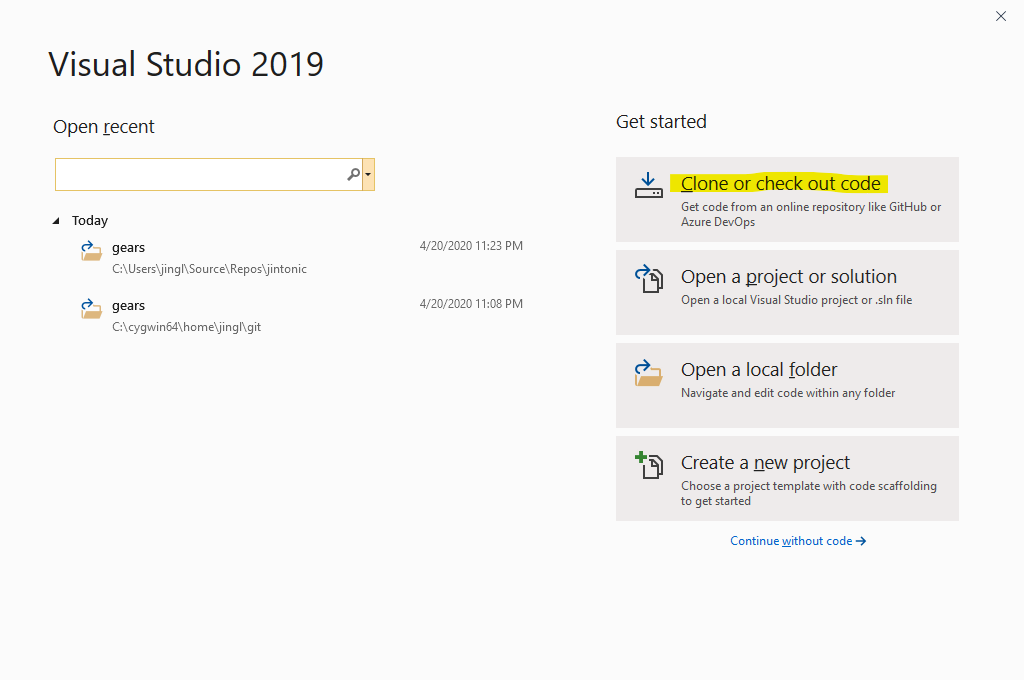
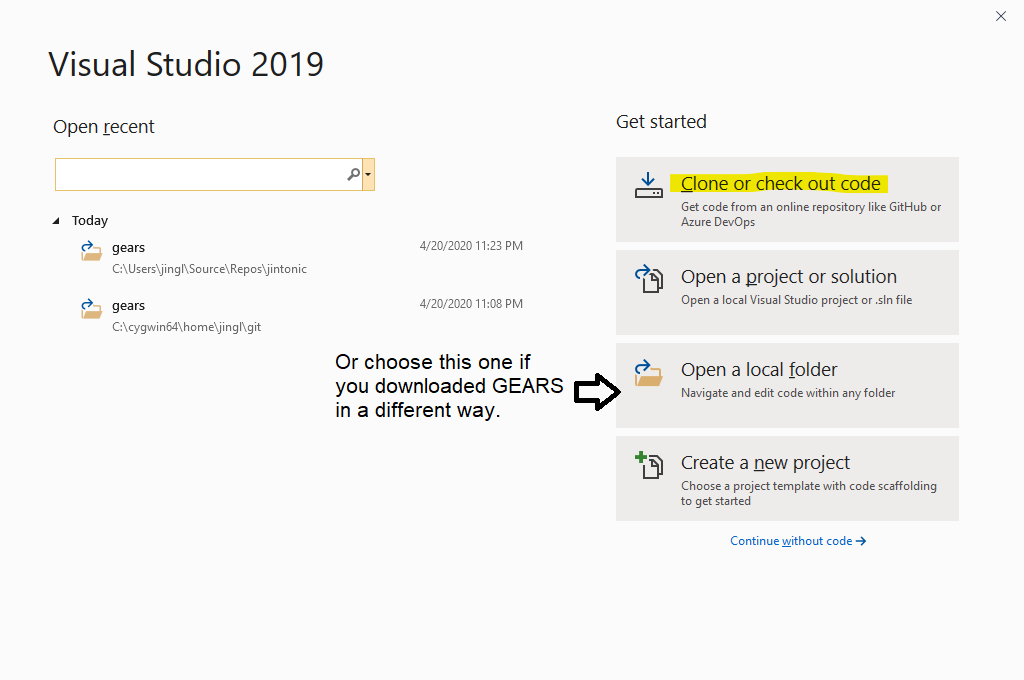
updated

Changed region(s): [[0.3125, 0.525, 0.625, 0.6176]]

diff --git a/install/README.md b/install/README.md
@@ -14,7 +14,15 @@
 [Geant4]: http://geant4.cern.ch
 
 ## Get GEARS
-[GEARS][] can be downloaded as a `.tar.gz` or `.zip` file from its [homepage](http://physino.xyz/gears) or [GitHub](https://github.com/jintonic/gears). In Linux, run the following commands to unzip it:
+### Get GEARS in Windows
+[GEARS][] can be downloaded as a `.zip` file from its [homepage](http://physino.xyz/gears) or [GitHub](https://github.com/jintonic/gears). Unpack it and that's it, you've got [GEARS][].
+
+If you know how to use [Git][], you can download the whole [GEARS repository from GitHub][GEARS] using either [GitHub Desktop](https://desktop.github.com/) or [Visual Studio][]. If you use [Visual Studio][], go to section [Compile GEARS with Visual Studio](#compile-gears-with-visual-studio) for detailed instruction.
+
+[Visual Studio]: https://visualstudio.microsoft.com/thank-you-downloading-visual-studio/?sku=Community
+
+### Get GEARS in macOS or Linux
+[GEARS][] can be downloaded as a `.tar.gz` or `.zip` file from its [homepage](http://physino.xyz/gears) or [GitHub](https://github.com/jintonic/gears). Run the following commands in your terminal to unzip it:
 
 ```sh
 $ unzip gears-master.zip # if you downloaded the zip file
@@ -47,19 +55,39 @@ $ git pull # get latest gears
 
 ## Compile GEARS
 
+Two compilation systems are provide for [GEARS][]. One is [CMake][]. This mechanism is provided to insure that [GEARS][] can be compiled across platforms. You can find a [CMakeLists.txt]({{site.file}}/CMakeLists.txt) file in the [GEARS][] folder, which can be detected automatically by [Visual Studio][]. The other method is to directly use a [makefile]({{site.file}}/makefile) shipped with [GEARS][], which simplifies the compilation in Linux and macOS significantly.
+
+[CMake]: https://cmake.org/
+
 ### Compile GEARS with Visual Studio
 
 Download Visual Studio Community Edition installer. Run it. Choose to install a workload called "Desktop development with C++". It is about 2 GB and takes a long time to download and install. When you open VS the first time, choose "Visual C++" as your "Development Settings". And then "Clone and checkout code":
+<img style="width:100%;" src="vsstart.png"/>
 
-![vsstart](vsstart.png)
-![vsrepos](vsrepos.png)
-![vsconfig](vsconfig.png)
+Insert the [GEARS][] [GitHub](https://github.com/jintonic/gears) repository address `https://github.com/jintonic/gears.git` in the window below, and click `Clone`:
+<img style="width:100%;" src="vsrepos.png"/>
+
+The default configuration of a new project in [Visual Studio][] 2019 is `x64-Debug` in a 64-bit Windows 10 machine. Choose in the pull down menu shown below `Manage Configurations...`:
+<img style="width:100%;" src="vsconfig.png"/>
+
+Add `x64-Release` as the new CMakeSettings in the window below.
 ![vscmakesetting](vscmakesetting.png)
+
+And delete `x64-Debug`.  The `x64-Debug` setting does not work with pre-compiled [Geant4][].
 ![vscmakermdebug](vscmakermdebug.png)
+
+Click on the save icon to save the new settings to a file called `CMakeSettings.json` in your local [GEARS][] folder:
+
 ![vssavecmakejson](vssavecmakejson.png)
+
+In the following drop-down menu, select `gears.exe`:
 ![vsselectgears](vsselectgears.png)
+
+And then press the green play button to compile [GEARS][]:
 ![vsrungears](vsrungears.png)
-![vsdebuggears](vsdebuggears.png)
+
+Upon a successful compilation, `gears.exe` will be automatically launched within [Visual Studio][]:
+<img style="width:100%;" src="vsdebuggears.png"/>
 
 ### Compile GEARS in macOS or Linux
 [GEARS][] is shipped with a simple [makefile]({{site.file}}/makefile). Simply type `make` to compile [gears.cc]({{site.file}}/gears.cc) to generate a tiny executable `gears` in the GEARS directory:
@@ -73,9 +101,11 @@ $ make # compile gears.cc to generate executable: gears
 
 ### Install GEARS in Windows
 
-When [GEARS][] is successfully compiled in `Visual Studio`, its executable `gears.exe` is saved in `\path\to\gears\out\build\x64-Release\`. You need to add this folder to the Windows environment variable `path` so that you can use `gears.exe` in other directories. A batch file [gears.bat](../gears.bat) is shipped with [GEARS][] to do this for you. Open the [GEARS][] folder in your file browser, select `gears.bat`, right click on it, choose `Run as administrator` to run it. To check if it works, open a `cmd.exe` window and type `echo %path%` in it:
+When [GEARS][] is successfully compiled in [Visual Studio][], its executable `gears.exe` is located at `\path\to\gears\out\build\x64-Release\`. You need to add this folder to the Windows environment variable `path` so that you can use `gears.exe` in other directories. A batch file [gears.bat]({{site.file}}/gears.bat) is shipped with [GEARS][] to do this for you. Open the [GEARS][] folder in your file browser, select `gears.bat`, right click on it, choose `Run as administrator` to run it. To check if it works, open a `cmd.exe` window and type `echo %path%` in it:
 
 ![winCmdPath](winCmdPath.png)
+
+The path to `gears.exe` should show up at the end of the list.
 
 ### Install GEARS in macOS or Linux
 
@@ -91,7 +121,7 @@ $ make # compile gears.cc to generate executable: gears
  --------------------------------------------------------
 ```
 
-Follow this instruction, open a new terminal when you are done, and you should be able to use the `gears` command in the new terminal now.
+Follow this instruction, open a new terminal when you are done, and you should be able to use the `gears` command in a new terminal now.
 
 For Mac users, you need to `source ~/.bashrc` in your `~/.bash_profile` in addition if you have not done so. Please check [this article](https://scriptingosx.com/2017/04/about-bash_profile-and-bashrc-on-macos/) for explanation.
 
@@ -101,7 +131,15 @@ If you use `zsh` instead of `bash`, use `~/.zshrc` instead of `~/.bashrc` or `~/
 
 ### User interface
 
-[GEARS][] relies on [G4UIExecutive]({{site.g4doc}}/GettingStarted/graphicalUserInterface.html#how-to-select-interface-in-your-applications) to select a user interface (UI). Without any specific setup, [GEARS][] will try to run a graphic user interface (GUI) based on [Qt][] or Windows GUI. If your [Geant4][] is not compiled with GUI support, [GEARS][] will try to [use a command-line UI]({{site.g4doc}}/GettingStarted/graphicalUserInterface.html#g4uiterminal). Run the following command in macOS or Linux to check if your [Geant4][] is compiled with [Qt][]
+[GEARS][] relies on [G4UIExecutive]({{site.g4doc}}/GettingStarted/graphicalUserInterface.html#how-to-select-interface-in-your-applications) to select a user interface (UI). Without any specific setup, [GEARS][] will try to run a graphic user interface (GUI) based on [Qt][] or Windows GUI. If your [Geant4][] is not compiled with GUI support, [GEARS][] will try to [use a command-line UI]({{site.g4doc}}/GettingStarted/graphicalUserInterface.html#g4uiterminal). In Windows, go to a folder where you'd like to run [GEARS][] in your file browser. Highlight the address bar, type `gears.exe`:
+
+![winLaunchGears](winLaunchGears.png)
+
+This will bring up the following GUI, which is simply a window to accept your macro commands:
+
+![winGUI](winGUI.png)
+
+In macOS or Linux, please run the following command to check if your [Geant4][] is compiled with [Qt][]:
 
 ```sh
 $ geant4-config --help | grep qt
@@ -139,6 +177,8 @@ $ gears RayTracer.mac # run gears in batch mode
 
 This way, `gears` will run in the batch mode. It executes commands in the macro file one by one, and quit once it finishes.
 
+In Windows, you can select a [Geant4][] macro file, right click on it, choose `Open with ...`, and then `Choose another app`, `More apps`, scroll down the list, choose `Look for another app in this PC` and navigate to the folder containing `gears.exe`, choose `gears.exe`. Now you can simply double click a [Geant4][] macro file to run it.
+
 [GDML]: https://gdml.web.cern.ch/GDML/
 [HDF5]: https://www.hdfgroup.org/downloads/hdf5/
 
@@ -148,7 +188,7 @@ This way, `gears` will run in the batch mode. It executes commands in the macro 
 * (Optional) [Xerces-C++](https://xerces.apache.org/xerces-c/), to use or export detector geometries in [GDML][] format.
 * (Optional) [HDF5][], to save simulation results in [HDF5][] format.
 
-The [Geant4 Installation Guide](https://geant4-userdoc.web.cern.ch/geant4-userdoc/UsersGuides/InstallationGuide/html/) is your ultimate reference should you have any issue regarding [Geant4][] installation. Covered here are detailed instructions on how to install pre-compiled [Geant4][] in [Windows](#install-pre-compiled-geant4-in-windows), [macOS](#install-pre-compiled-geant4-in-macos), and [CentOS7](#install-pre-compiled-geant4-in-centos) to skip a long compilation of [Geant4][], which cannot be avoid if you use other OS or need features that are not included in the pre-compiled [Geant4][].
+The [Geant4 Installation Guide](https://geant4-userdoc.web.cern.ch/geant4-userdoc/UsersGuides/InstallationGuide/html/) is your ultimate reference should you have any issue regarding [Geant4][] installation. Covered here are detailed instructions on how to install pre-compiled [Geant4][] in [Windows](#install-pre-compiled-geant4-in-windows), [macOS](#install-pre-compiled-geant4-in-macos), and [CentOS7](#install-pre-compiled-geant4-in-centos) to skip the long compilation of [Geant4][], which cannot be avoid if you use other OS or need features that are not included in the pre-compiled [Geant4][].
 
 ## Install pre-compiled Geant4 in Windows
 
@@ -156,17 +196,17 @@ Download pre-compiled Geant4 in Windows 10 from <https://geant4.web.cern.ch/supp
 
 ![wing4path](wing4path.png)
 
-A few more steps need to be done before you can start to use your [Geant4][]. They are covered in the [Geant4 Installation Guide](http://geant4-userdoc.web.cern.ch/geant4-userdoc/UsersGuides/InstallationGuide/html/postinstall.html#required-environment-settings-on-windows). Basically, you need to download [Geant4][] data files from <http://geant4.web.cern.ch/support/download>, unpack them into a directory, for example, `C:\Program Files\Geant4 10.6\share\Geant4-10.6.1\data`, and then [set environment variables](http://geant4-userdoc.web.cern.ch/geant4-userdoc/UsersGuides/InstallationGuide/html/postinstall.html#required-environment-settings-on-windows) to point to the database directories. This is a very tedious process. You can download [a windows batch file](https://en.wikipedia.org/wiki/Batch_file), [GEARS/install/geant4.bat](geant4.bat), save it to the same folder where the Geant4 data are saved, select it and then right click on it, choose "Run as administrator" to run it. To check if it runs successfully, press the `windows` key on your keyboard, search for `view advanced system settings` and <kbd>Enter</kbd> to bring up the following window:
+A few more steps need to be done before you can start to use your [Geant4][]. They are covered in the [Geant4 Installation Guide](http://geant4-userdoc.web.cern.ch/geant4-userdoc/UsersGuides/InstallationGuide/html/postinstall.html#required-environment-settings-on-windows). Basically, you need to download [Geant4][] data files from <http://geant4.web.cern.ch/support/download>, unpack them into a directory, for example, `C:\Program Files\Geant4 10.6\share\Geant4-10.6.1\data`, and then [set environment variables](http://geant4-userdoc.web.cern.ch/geant4-userdoc/UsersGuides/InstallationGuide/html/postinstall.html#required-environment-settings-on-windows) to point to the database directories. This is a very tedious process. You can download [a windows batch file](https://en.wikipedia.org/wiki/Batch_file), [GEARS/install/geant4.bat](geant4.bat), save it to the SAME folder where the Geant4 datasets are saved, select it and then right click on it, choose "Run as administrator" to run it. To check if it runs successfully, press the `windows` key on your keyboard, search for `view advanced system settings` and type <kbd>Enter</kbd> to bring up the following window:
 
 ![winSys](winSys.png)
 
 Click "Environment Variables..." and check the highlighted items to make sure that your Geant4 installation folder is included in the `Path` and every data folder is associated with a environment variable:
 
-![winEnv](winEnv.png)
+<img style="width:100%;" src="winEnv.png"/>
 
 ## Install pre-compiled Geant4 in macOS
 
-You can download the pre-compiled Geant4 libraries for the macOS [here](https://geant4.web.cern.ch/support/download). By default, it will be saved to `~/Downloads`.
+You can download the pre-compiled Geant4 libraries for the macOS [here](https://geant4.web.cern.ch/support/download). By default, it will be saved to `~/Downloads`. The next step is to download [Geant4 datasets](https://geant4.web.cern.ch/support/download) one by one and unpack them into a folder. This tedious process can be automated by using the [geant4-config][] script shipped with [Geant4][]. However, the one shipped with the pre-compiled [Geant4][] does not know where your data folder is. You need to run the following commands to update your [geant4-config][] and use it to install all the datasets for you:
 
 ```sh
 $ cd ~/Downloads/Geant4-10.6.1-Darwin/bin
@@ -186,7 +226,7 @@ $ xattr -w com.apple.quarantine "00c1;5e968234;Firefox;29504EDE-15EA-4CF5-A750-6
 $ xattr -w com.apple.quarantine "00c1;5e968234;Firefox;29504EDE-15EA-4CF5-A750-6B0AEB8CF5ED" libG4*.dylib
 ```
 
-Add the following to `~/.bash_profile`:
+Add the following to `~/.bash_profile` (or `~/.zshrc` if you use zsh) to finish the post-installation setups:
 
 ```sh
 export G4SYSTEM=Darwin-clang
@@ -221,13 +261,34 @@ $ ln -sf /opt/X11/lib/libXmu.6.dylib
 
 ## Install pre-compiled Geant4 in CentOS
 
-After an successful installation of [Geant4][], there should be a command line tool [geant4-config](http://geant4-userdoc.web.cern.ch/geant4-userdoc/UsersGuides/InstallationGuide/html/buildtools.html#other-unix-build-systems-geant4-config) available, which can be used to query some basic information of your [Geant4][] installation. [GEARS][] relies on it to find the installed [Geant4][] libraries and header files.Please run the following command to make sure that you have it available:
+You can download the pre-compiled Geant4 libraries for CentOS [here](https://geant4.web.cern.ch/support/download). Unpack it to a directory that you like:
 
 ```sh
-$ which geant4-config
+$ cd /path/to/your/Linux-g++8.3.0-CC7.tar.gz
+$ tar xfvz Linux-g++8.3.0-CC7.tar.gz
+$ ls
+./   ../   Geant4-10.6.1-Linux/
 ```
 
-If you get a null result, please contact the person who installed [Geant4][] in your system for help.
+The next step is to download [Geant4 datasets](https://geant4.web.cern.ch/support/download) one by one and unpack them into a folder. This tedious process can be automated by using the [geant4-config][] script shipped with [Geant4][], which can be found in `/path/to/your/geant4/bin/`.  However, the one shipped with the pre-compiled [Geant4][] does not know where your data folder is. You need to run the following commands to update your [geant4-config][] and use it to install all the datasets for you:
+
+```sh
+$ cd /path/to/your/Geant4-10.6.1-Linux/bin
+# change location of geant4 databases
+$ sed -i.bak 's|/afs/cern.ch/user/g/gunter/l/releases/web/10.6.p01/install|/path/to/your/geant4|g' geant4-config
+$ ./geant4-config --install-datasets
+```
+
+A bash script [gears.sh]({{site.file}}/gears.sh) is provided in [GEARS][] to find the location of the Geant4 datasets. Add the following to your `~/.bashrc` (or `~/.zshrc` if you use zsh) to finish the post-installation setups:
+
+```sh
+export G4SYSTEM=Linux-g++
+export G4INSTALL=/path/to/your/pre-compiled/geant4
+export PATH=$G4INSTALL/bin:$PATH
+export LD_LIBRARY_PATH=$G4INSTALL/lib:$LD_LIBRARY_PATH
+# source gears/gears.sh to export Geant4 database locations
+source /path/to/gears/gears.sh
+```
 
 # Install ROOT
 
@@ -273,3 +334,4 @@ Save and quit, open a new terminal, and you should be able to run the `root` com
 [ROOT]: https://root.cern.ch
 [uproot]: https://github.com/scikit-hep/uproot
 [Python]: https://www.python.org/
+[Geant4-config]: http://geant4-userdoc.web.cern.ch/geant4-userdoc/UsersGuides/InstallationGuide/html/buildtools.html#other-unix-build-systems-geant4-config
